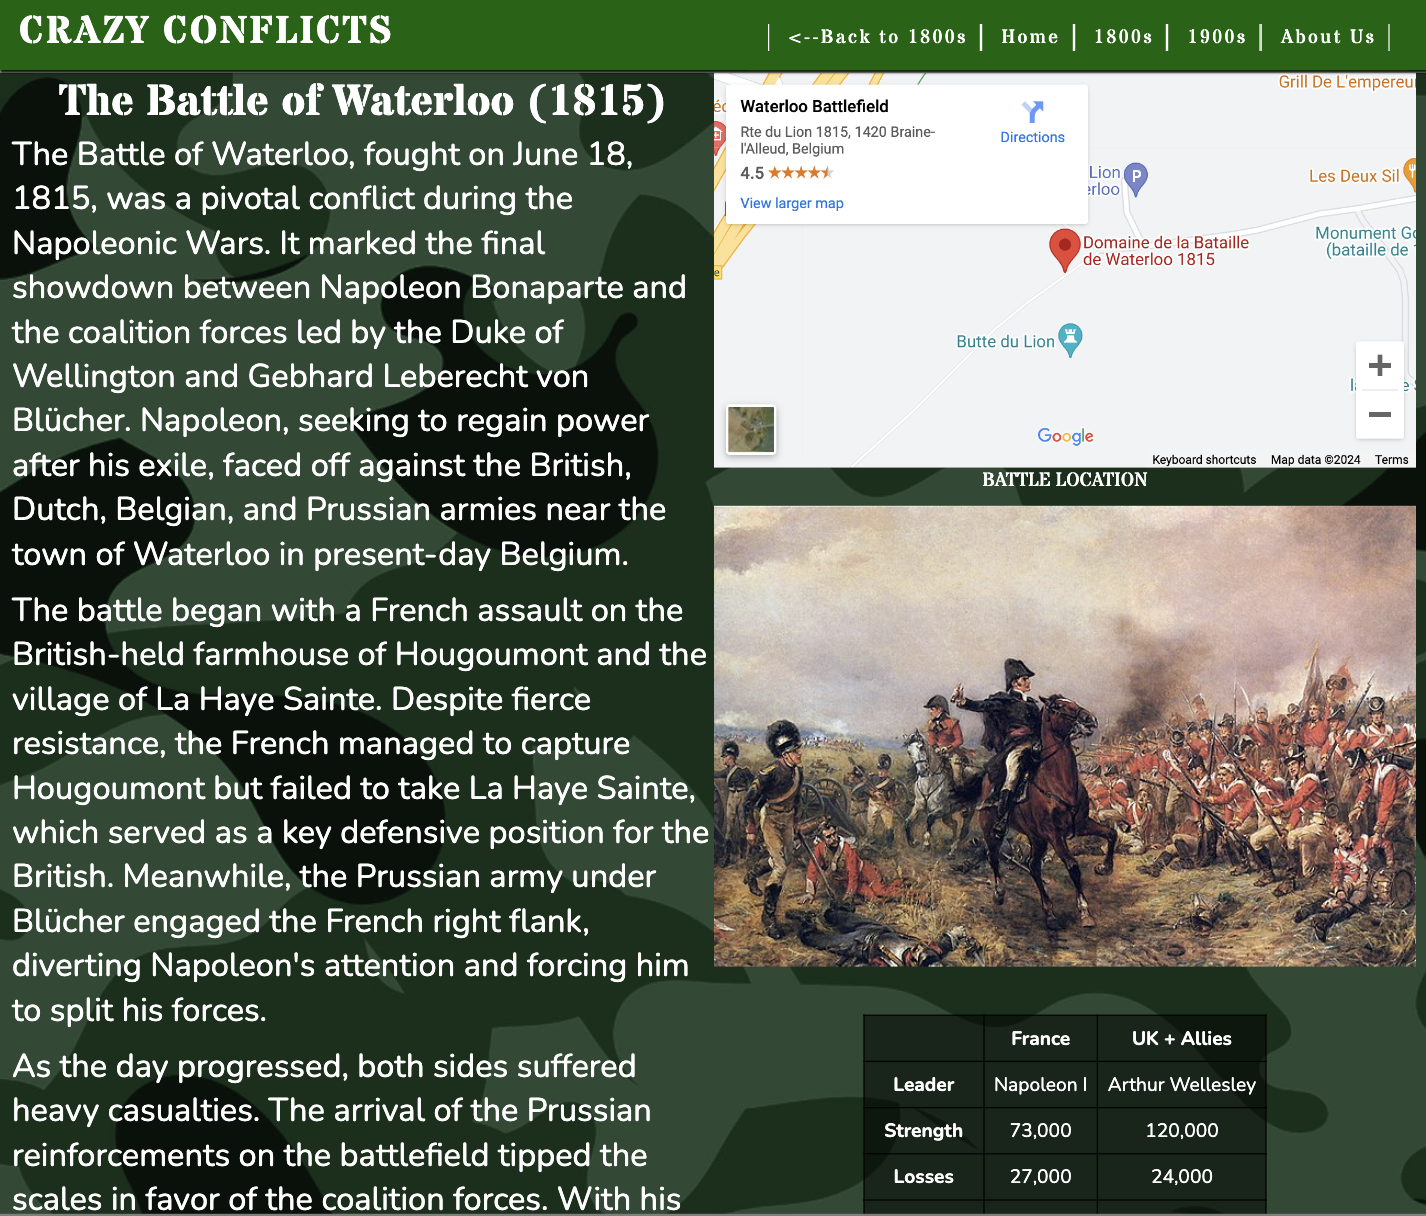
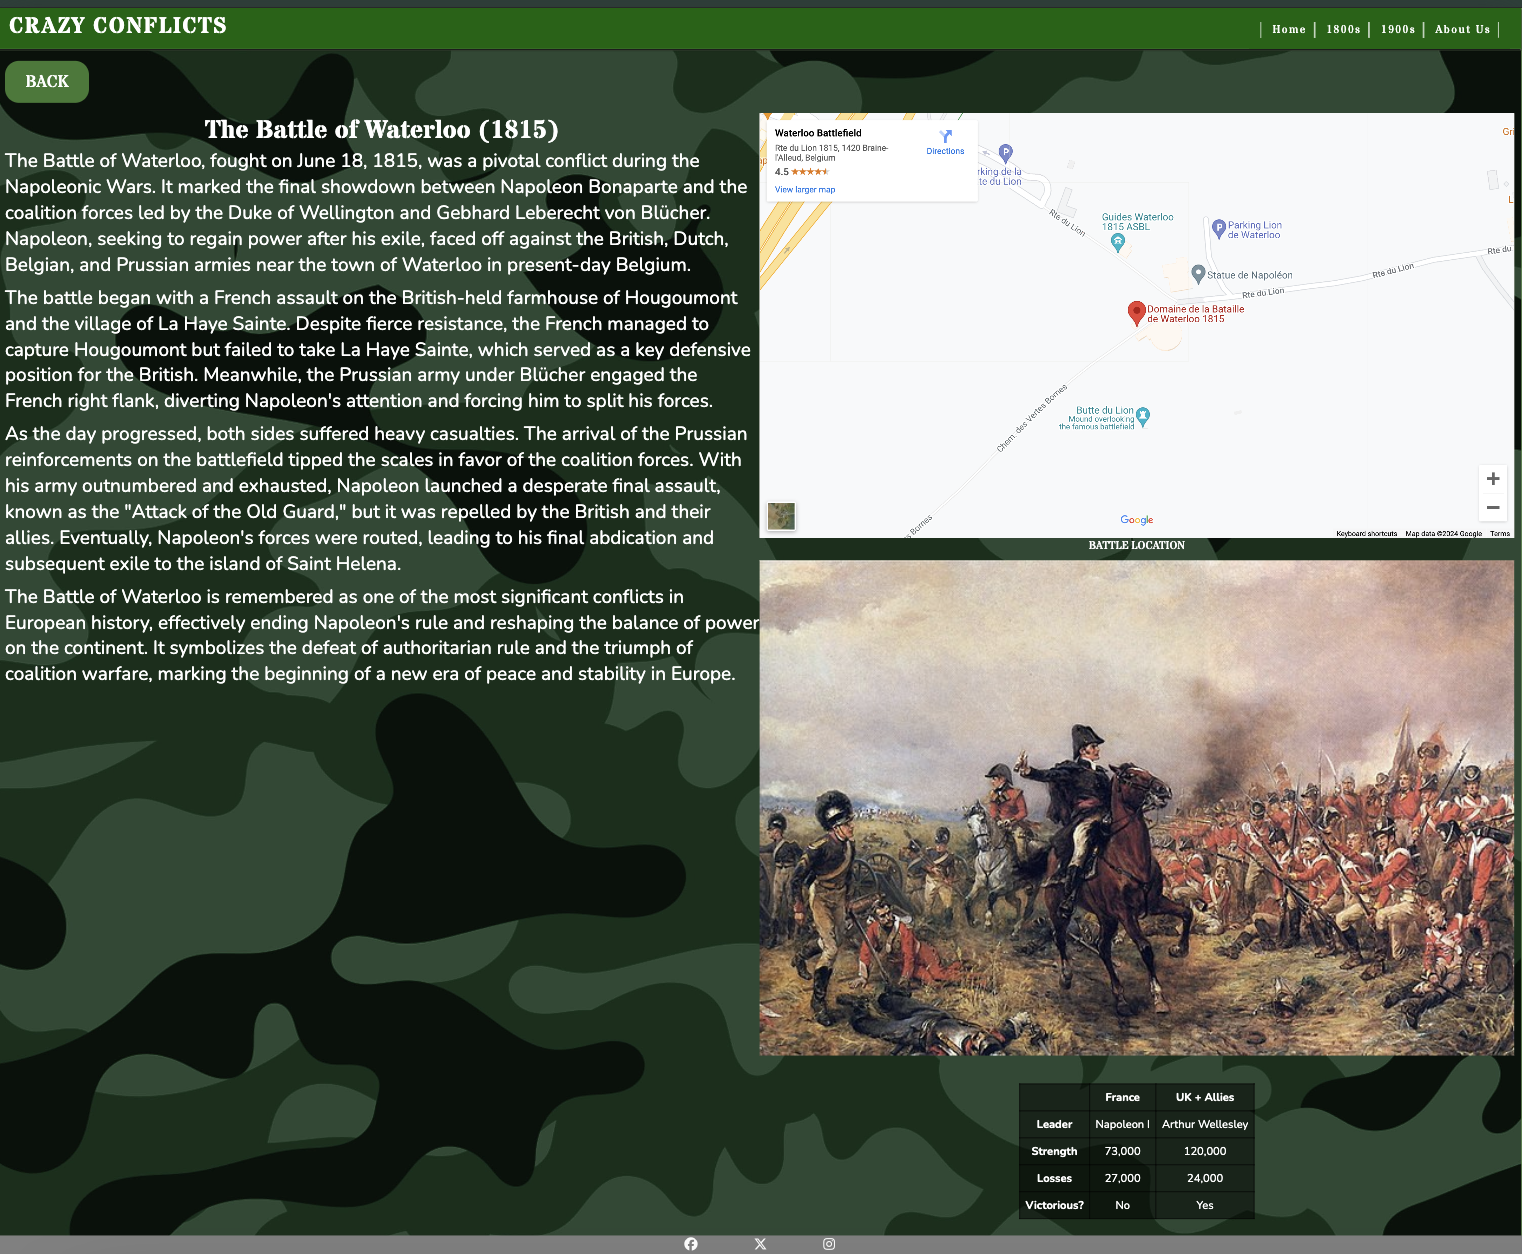
add back button to battle pages, change README entry regarding this

diff --git a/assets/css/style.css b/assets/css/style.css
@@ -165,6 +165,25 @@ padding-bottom: 40px;
     padding-right:5px;
 }
 /*BATTLE PAGE STYLES*/
+#back-button a{
+    color:#ffffff;
+    background-color: #3e7a32;
+    text-decoration:none;
+    font-family:'Stardos Stencil'
+}
+#back-button{
+    border:0px;
+    width:120px;
+    height:60px;
+    background-color: #3e7a32;
+    font-size: 150%;
+    margin-top:15px;
+    margin-bottom:15px;
+    margin-left:10px;
+    display:inline-block;
+    border-radius: 20px;
+    padding-left;
+}
 .battle-container{
     display:flex;
     padding: 0 10px
@@ -260,7 +279,7 @@ th, td {
     padding-bottom: 20px;
     font-size:120%;
 }
-aboutus-map{
+#aboutus-map{
     max-width:100%;
     max-height:100%;
 }

diff --git a/san-jacinto.html b/san-jacinto.html
@@ -23,7 +23,6 @@
         <label for="nav-toggle" class="nav-toggle-label"><i class="fa-solid fa-bars"></i></label>
         <nav>
             <ul id="menu">
-                <li><a href="1800s.html">Back to 1800s</a></li>
                 <li><a href="index.html">Home</a></li>
                 <li><a href="1800s.html">1800s</a></li>
                 <li><a href="1900s.html">1900s</a></li>
@@ -32,6 +31,7 @@
         </nav>
     </header>
     <main>
+        <button id="back-button"><a href="1800s.html">BACK</a></button>
         <div class="battle-container">
             <!--BATTLE DESCRIPTION-->
             <div class="battle-text">

diff --git a/stalingrad.html b/stalingrad.html
@@ -23,7 +23,6 @@
         <label for="nav-toggle" class="nav-toggle-label"><i class="fa-solid fa-bars"></i></label>
         <nav>
             <ul id="menu">
-                <li><a href="1900s.html">Back to 1900s</a></li>
                 <li><a href="index.html">Home</a></li>
                 <li><a href="1800s.html">1800s</a></li>
                 <li><a href="1900s.html">1900s</a></li>
@@ -32,6 +31,7 @@
         </nav>
     </header>
     <main>
+        <button id="back-button"><a href="1900s.html">BACK</a></button>
         <div class="battle-container">
             <!--BATTLE DESCRIPTION-->
             <div class="battle-text">

diff --git a/taiping.html b/taiping.html
@@ -23,7 +23,6 @@
         <label for="nav-toggle" class="nav-toggle-label"><i class="fa-solid fa-bars"></i></label>
         <nav>
             <ul id="menu">
-                <li><a href="1800s.html">Back to 1800s</a></li>
                 <li><a href="index.html">Home</a></li>
                 <li><a href="1800s.html">1800s</a></li>
                 <li><a href="1900s.html">1900s</a></li>
@@ -32,6 +31,7 @@
         </nav>
     </header>
     <main>
+        <button id="back-button"><a href="1800s.html">BACK</a></button>
         <div class="battle-container">
             <!--BATTLE DESCRIPTION-->
             <div class="battle-text">

diff --git a/waterloo.html b/waterloo.html
@@ -23,7 +23,6 @@
         <label for="nav-toggle" class="nav-toggle-label"><i class="fa-solid fa-bars"></i></label>
         <nav>
             <ul id="menu">
-                <li><a href="1800s.html">Back to 1800s</a></li>
                 <li><a href="index.html">Home</a></li>
                 <li><a href="1800s.html">1800s</a></li>
                 <li><a href="1900s.html">1900s</a></li>
@@ -32,6 +31,7 @@
         </nav>
     </header>
     <main>
+        <button id="back-button"><a href="1800s.html">BACK</a></button>
         <div class="battle-container">
             <!--BATTLE DESCRIPTION-->
             <div class="battle-text">

diff --git a/kursk.html b/kursk.html
@@ -32,6 +32,7 @@
         </nav>
     </header>
     <main>
+        <button id="back-button"><a href="1900s.html">BACK</a></button>
         <div class="battle-container">
             <!--BATTLE DESCRIPTION-->
             <div class="battle-text">

diff --git a/tetoffensive.html b/tetoffensive.html
@@ -32,6 +32,7 @@
         </nav>
     </header>
     <main>
+        <button id="back-button"><a href="1900s.html">BACK</a></button>
         <div class="battle-container">
             <!--BATTLE DESCRIPTION-->
             <div class="battle-text">

diff --git a/README.md b/README.md
@@ -29,6 +29,7 @@ Crazy Conflicts is an up and coming website designed to give users fast, easily 
 ### Battle Pages
 - From each battle list page era, the user can discover individual battles, which has been split into two sections, a description on the left (or appearing first if viewed on a tablet or phone) and visuals on the right to support this description, making the site easy to read and understand, and seperating these out reduces cognitive overload to the user
 - The visuals contain a Google Maps iframe of where the battle took place, giving them an understanding of it's location on the planet, an image or artist's rendition of the battle to make them understand the reality of the horrors that took place, and finally a table that provides the user fast facts such as who the leaders of each army were, how big the armies were, etc, making important statistics easy to obtain
+- Page contains a back button at the top to allow the user easy navigation back to the list of battles from the era in which they are viewing
 
 ![screenshot](assets/readme-screenshots/aboutusscreenshot.png)
 ### About Us Page
